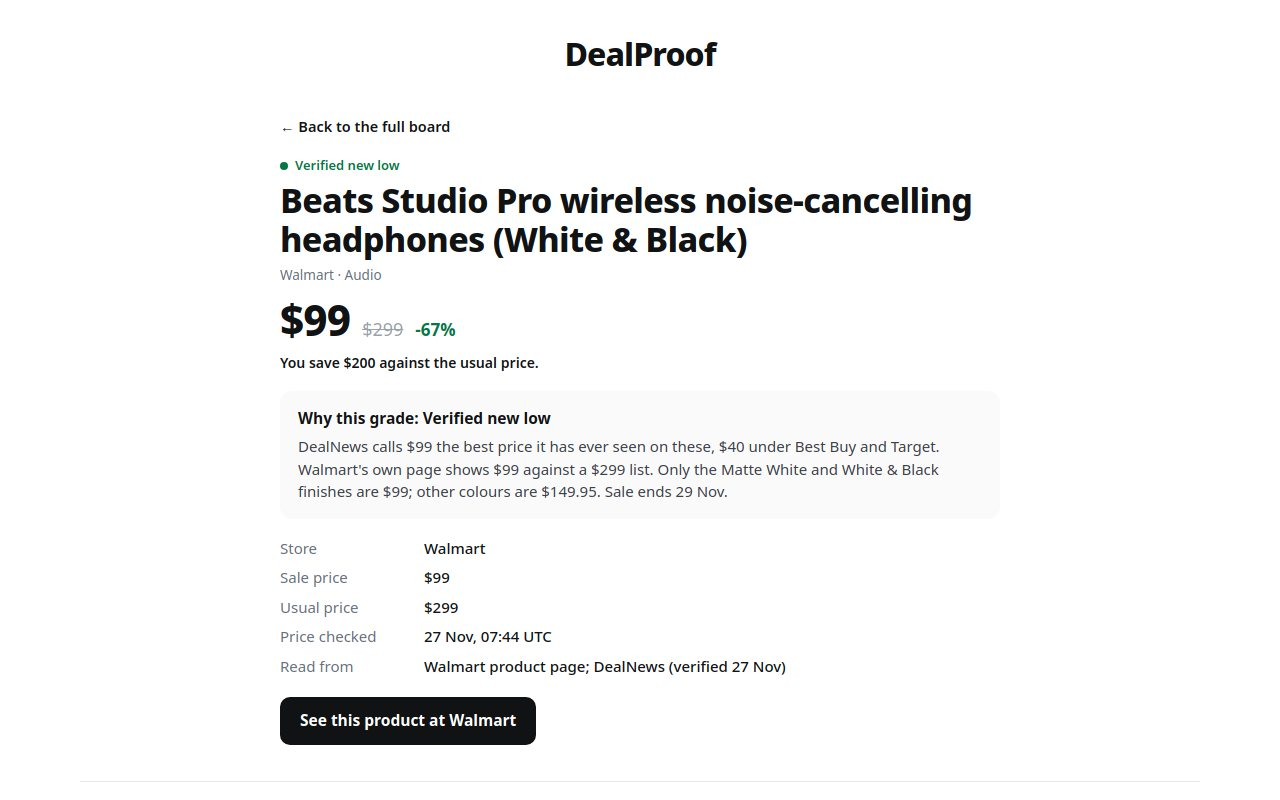
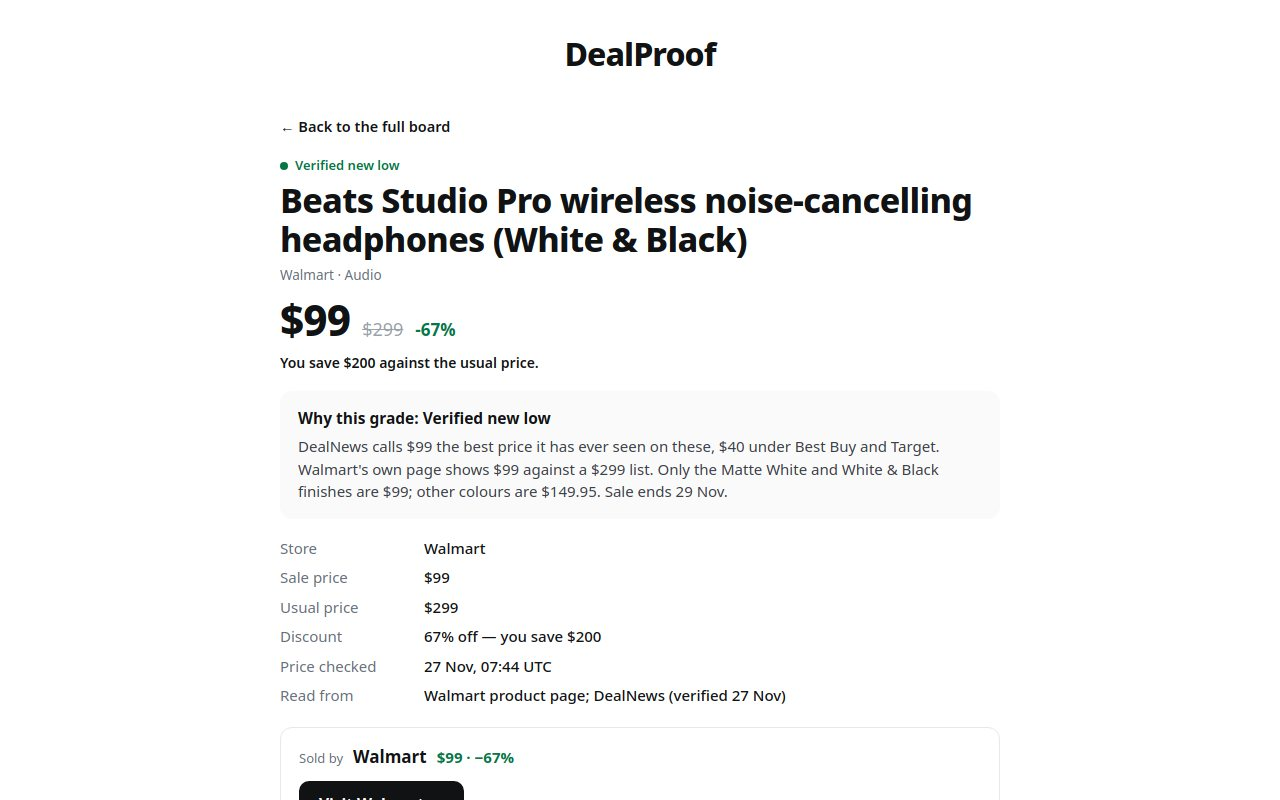
Clickable cards, product-page seller box, discount fact row

Changed region(s): [[0.2188, 0.7812, 0.625, 1.0]]

diff --git a/app/views.js b/app/views.js
@@ -57,12 +57,23 @@ export function dealCard(deal) {
 
   const foot = el("div", "card-foot");
   foot.append(el("span", "card-checked", `Checked ${fmtChecked(deal.checked)} · ${deal.source}`));
+  const links = el("span", "card-links");
+  const detailsLink = el("a", "details-link", "Details →");
+  detailsLink.href = `#/deal/${deal.id}`;
+  links.append(detailsLink);
   const storeLink = el("a", "store-link", `View at ${deal.store}`);
   storeLink.href = deal.url;
   storeLink.target = "_blank";
   storeLink.rel = "noopener";
-  foot.append(storeLink);
+  links.append(storeLink);
+  foot.append(links);
   card.append(foot);
+
+  // The whole card opens the product page; only the store link leaves the site.
+  card.addEventListener("click", (event) => {
+    if (event.target.closest("a")) return;
+    location.hash = `/deal/${deal.id}`;
+  });
   return card;
 }
 
@@ -160,15 +171,30 @@ export function renderDetail(container, deal, allDeals) {
   fact("Store", deal.store);
   fact("Sale price", formatMoney(deal.price));
   fact("Usual price", formatMoney(deal.was));
+  fact("Discount", `${discountPct(deal)}% off — you save ${formatMoney(savings(deal))}`);
   fact("Price checked", fmtChecked(deal.checked));
   fact("Read from", deal.source);
   wrap.append(facts);
 
-  const cta = el("a", "cta-link", `See this product at ${deal.store}`);
+  // The seller container: who sells it, the price there, and the way out to
+  // the store's own website.
+  const seller = el("section", "seller-box");
+  const sellerHead = el("div", "seller-head");
+  sellerHead.append(el("span", "seller-label", "Sold by"));
+  sellerHead.append(el("span", "seller-name", deal.store));
+  sellerHead.append(
+    el("span", "seller-price", `${formatMoney(deal.price)} · −${discountPct(deal)}%`),
+  );
+  seller.append(sellerHead);
+  const cta = el("a", "cta-link", `Visit ${deal.store} →`);
   cta.href = deal.url;
   cta.target = "_blank";
   cta.rel = "noopener";
-  wrap.append(cta);
+  seller.append(cta);
+  seller.append(
+    el("p", "seller-note", `Opens this product on ${deal.store}'s website. Price checked ${fmtChecked(deal.checked)}.`),
+  );
+  wrap.append(seller);
 
   const others = allDeals.filter((d) => d.title === deal.title && d.id !== deal.id);
   if (others.length > 0) {

diff --git a/app/style.css b/app/style.css
@@ -105,6 +105,10 @@ a:focus-visible, button:focus-visible, input:focus-visible, select:focus-visible
   border-bottom: 1px solid var(--line);
 }
 .card:hover { background: var(--surface); }
+.card { cursor: pointer; }
+.card-links { display: inline-flex; gap: 18px; }
+.details-link { font-size: 14px; font-weight: 600; text-decoration: none; white-space: nowrap; }
+.details-link:hover { text-decoration: underline; text-underline-offset: 3px; }
 .card-top {
   grid-column: 1 / -1;
   display: flex;
@@ -214,6 +218,17 @@ a:focus-visible, button:focus-visible, input:focus-visible, select:focus-visible
   min-height: 48px;
 }
 .cta-link:hover { background: #2a2c30; }
+.seller-box {
+  border: 1px solid var(--line);
+  border-radius: 12px;
+  padding: 16px 18px;
+  margin-top: 6px;
+}
+.seller-head { display: flex; align-items: baseline; gap: 10px; flex-wrap: wrap; margin-bottom: 12px; }
+.seller-label { font-size: 13px; color: var(--muted); }
+.seller-name { font-size: 17px; font-weight: 750; }
+.seller-price { font-size: 15px; font-weight: 700; color: var(--low); font-variant-numeric: tabular-nums; }
+.seller-note { margin: 10px 0 0; font-size: 13px; color: var(--muted); }
 .alt-box { margin-top: 26px; border-top: 1px solid var(--line); padding-top: 14px; }
 .alt-box h3 { font-size: 15.5px; margin: 0 0 6px; }
 .alt-line { font-size: 15px; margin: 4px 0; }
